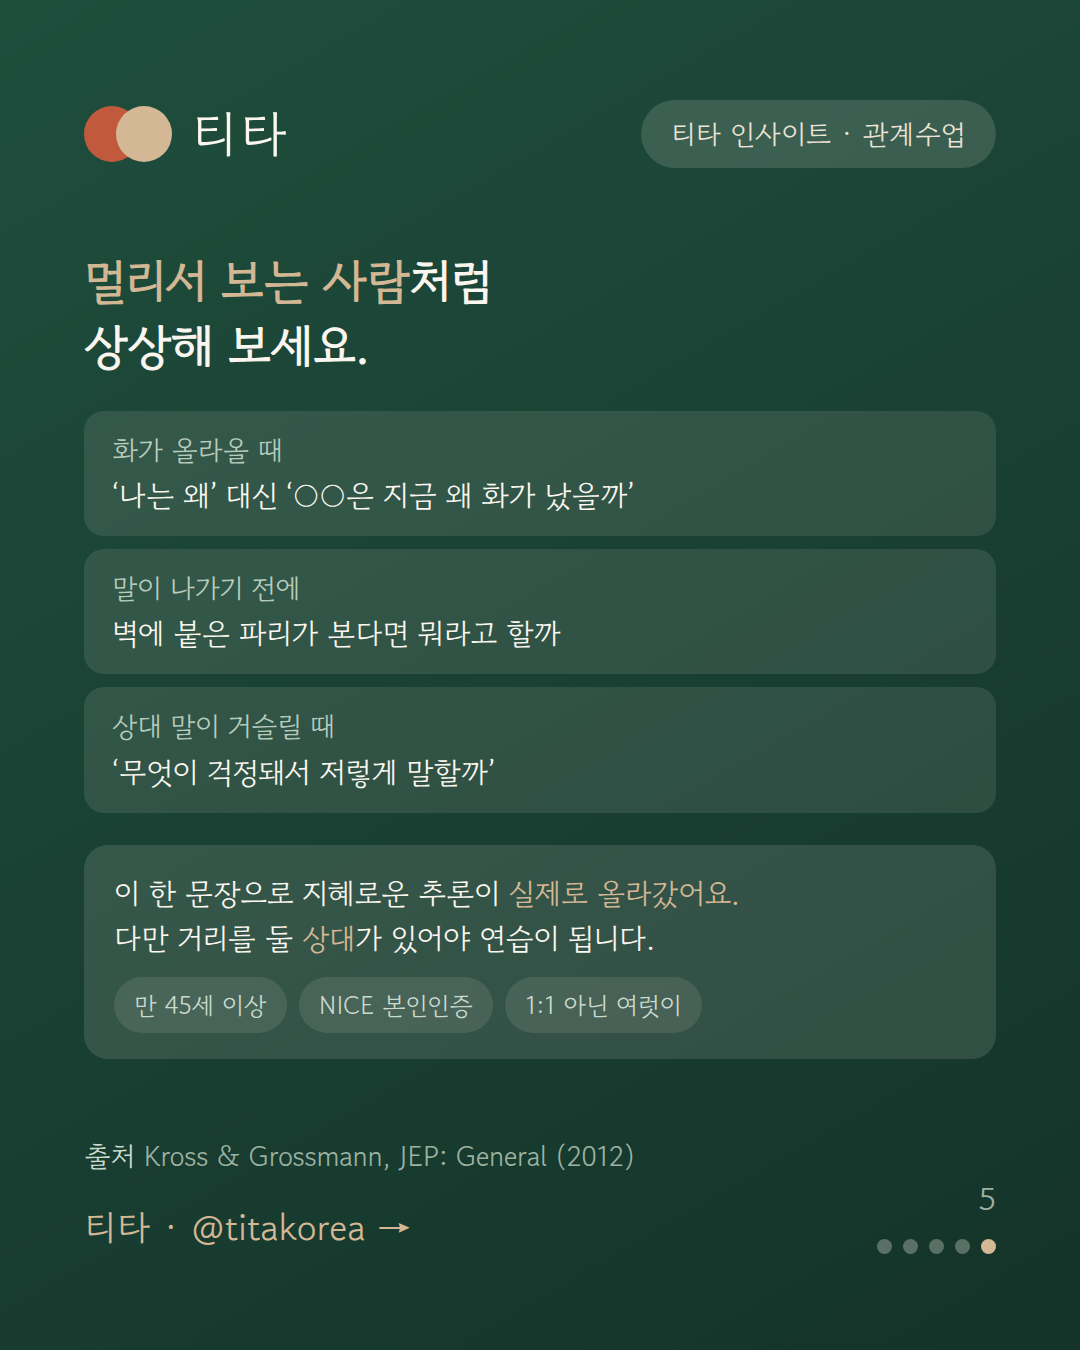
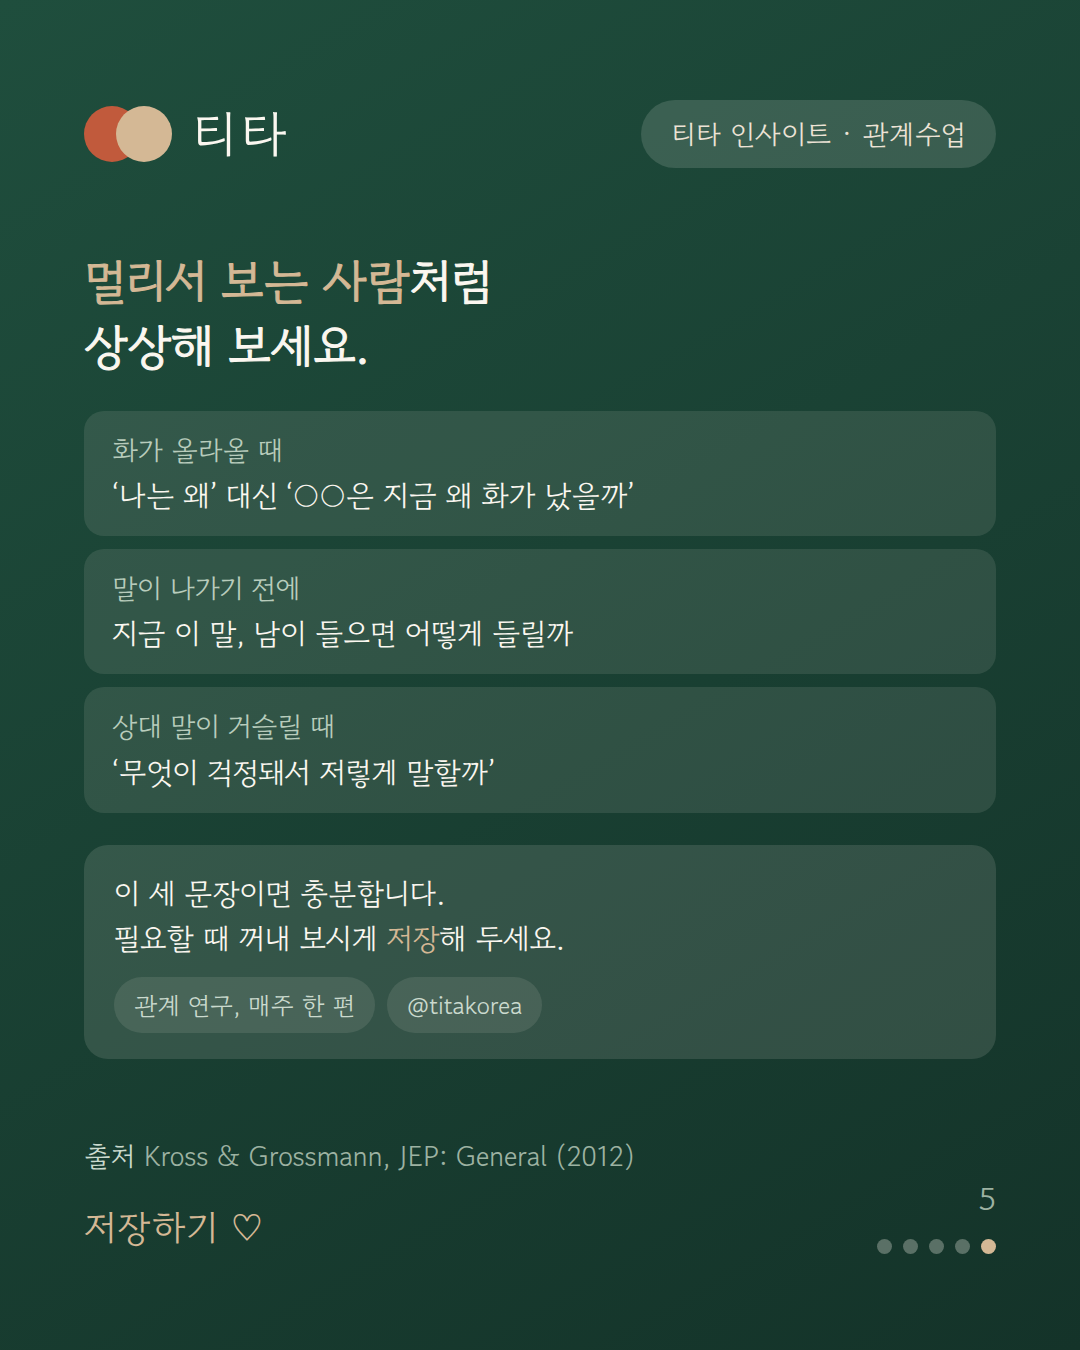
fix(blog): 직역 관용구를 걷어내고 마무리에서 광고 톤을 뺀다
'벽에 붙은 파리가 본다면'은 fly on the wall을 그대로 옮긴 것이라 한국어로는
읽히지 않는다. '지금 이 말, 남이 들으면 어떻게 들릴까'로 바꿨다. 같은
자기 거리두기인데 설명 없이 바로 통한다.

마무리의 티타 문단도 뺐다. '지혜는 사회적이라 상대가 있어야 연습된다'는
관찰까지는 연구에서 나오지만, 거기서 '그러니 티타를 쓰세요'로 건너뛰는 건
비약이고 글 전체의 신뢰를 깎는다. 대신 실제로 자주 듣는 말("요즘은 누구랑
부딪힐 일이 없어요")을 관찰로 남기고, 독자가 오늘 할 수 있는 한 가지로 닫는다.

카드 5의 마무리 블록도 앱 설치 유도에서 저장·팔로우로 바꿨다. 인사이트
캐러셀에서 현실적인 전환은 설치가 아니라 저장이다. 하단 문구도
'티타 · @titakorea →'에서 '저장하기 ♡'로.

Claude-Session: https://claude.ai/code/session_01SVoaR1M7XWjiBzTKquaj1d

Changed region(s): [[0.0917, 0.6533, 0.6722, 0.7778], [0.0917, 0.4356, 0.5194, 0.4978], [0.0611, 0.9022, 0.3361, 0.9333]]

diff --git a/src/app/blog/posts.ts b/src/app/blog/posts.ts
@@ -168,7 +168,7 @@ export const POSTS: BlogPost[] = [
       },
       {
         type: "p",
-        text: "화가 올라올 때 ‘나는 왜 이렇게 화가 나지’ 대신 **‘○○은 지금 왜 화가 났을까’** 하고 자기 이름으로 부르는 것. 말이 나가기 전에 **벽에 붙은 파리가 이 장면을 본다면 뭐라고 할까**를 한 번 떠올리는 것. 상대의 말이 거슬릴 때 **‘이 사람은 무엇이 걱정돼서 저렇게 말할까’** 하고 한 번 묻는 것.",
+        text: "화가 올라올 때 ‘나는 왜 이렇게 화가 나지’ 대신 **‘○○은 지금 왜 화가 났을까’** 하고 자기 이름으로 부르는 것. 말이 나가기 전에 **‘지금 이 말, 남이 들으면 어떻게 들릴까’**를 한 번 떠올리는 것. 상대의 말이 거슬릴 때 **‘이 사람은 무엇이 걱정돼서 저렇게 말할까’** 하고 한 번 묻는 것.",
       },
       {
         type: "callout",
@@ -189,7 +189,11 @@ export const POSTS: BlogPost[] = [
       },
       {
         type: "p",
-        text: "티타는 그 자리를 만들려고 합니다. 결이 맞는 또래를 가까운 동네에서 만나고, 한 번으로 끝나지 않게 다시 만날 자리를 잇습니다. 처음이 부담스럽지 않게 1:1이 아니라 여럿이 모이고, 안심하고 시작하실 수 있도록 **NICE 본인인증**을 통과한 분만 함께합니다.",
+        text: "티타를 만들며 가장 자주 듣는 말이 이겁니다. **“요즘은 누구랑 부딪힐 일이 없어요.”** 편하다고 하시면서도 목소리 끝이 조금 아쉽습니다. 부딪힐 일이 없다는 건 연습할 일도 없다는 뜻이니까요.",
+      },
+      {
+        type: "p",
+        text: "그러니 오늘은 위 세 문장 중 하나만 기억해 두셔도 충분합니다. 화가 올라올 때 자기 이름을 한 번 불러 보는 것. 그것만으로도 한 박자가 생깁니다.",
       },
       {
         type: "quote",
